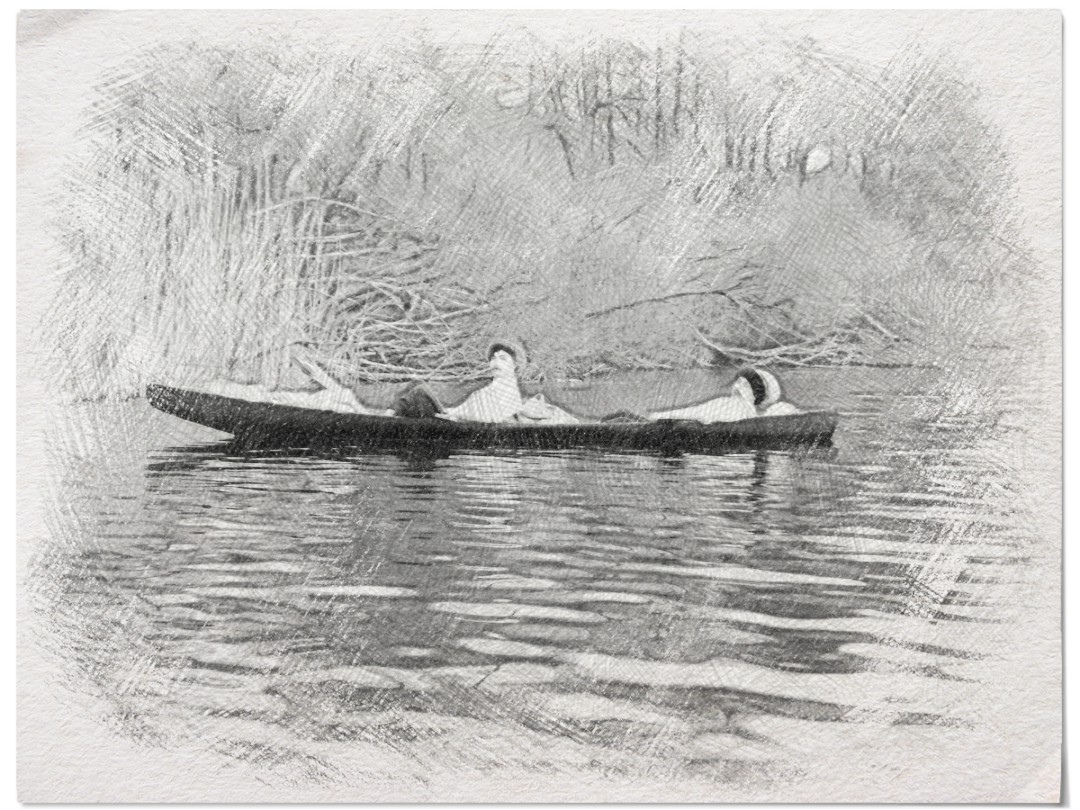
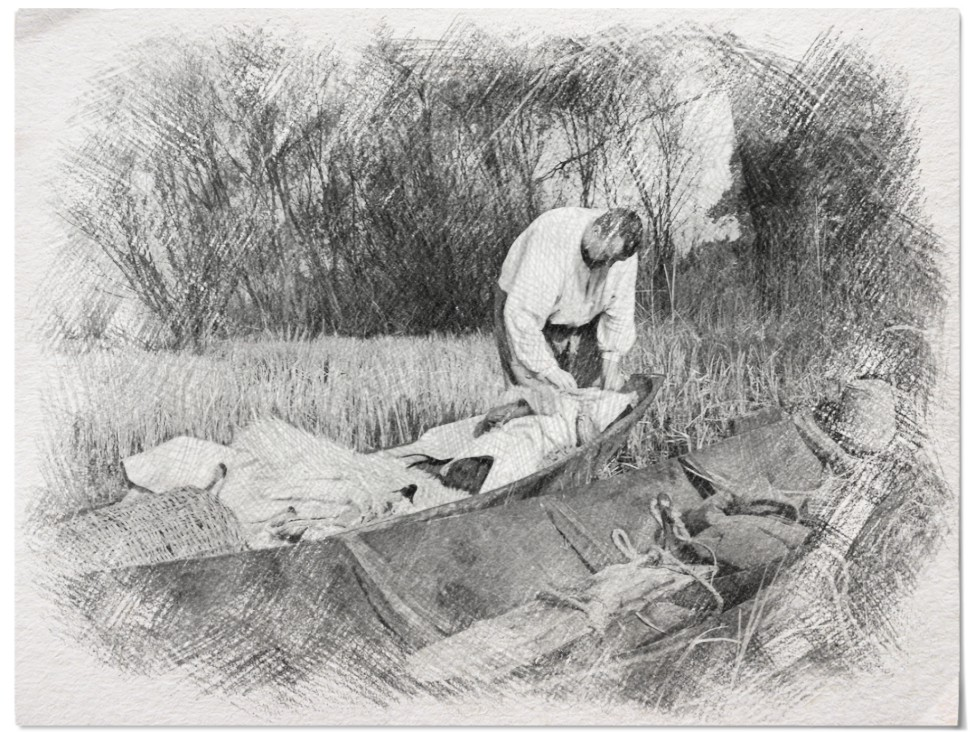
Added colored images for boat category

diff --git a/android/locadeserta/lib/models/BackgroundImage.dart b/android/locadeserta/lib/models/BackgroundImage.dart
@@ -33,7 +33,7 @@ class BackgroundImage {
 class BoatImages implements RandomImage {
   Random _random = Random();
   int _currentRandom;
-  static const _MAX = 4;
+  static const _MAX = 14;
   List<int> _usedRandomNumbers;
 
   BoatImages() {
